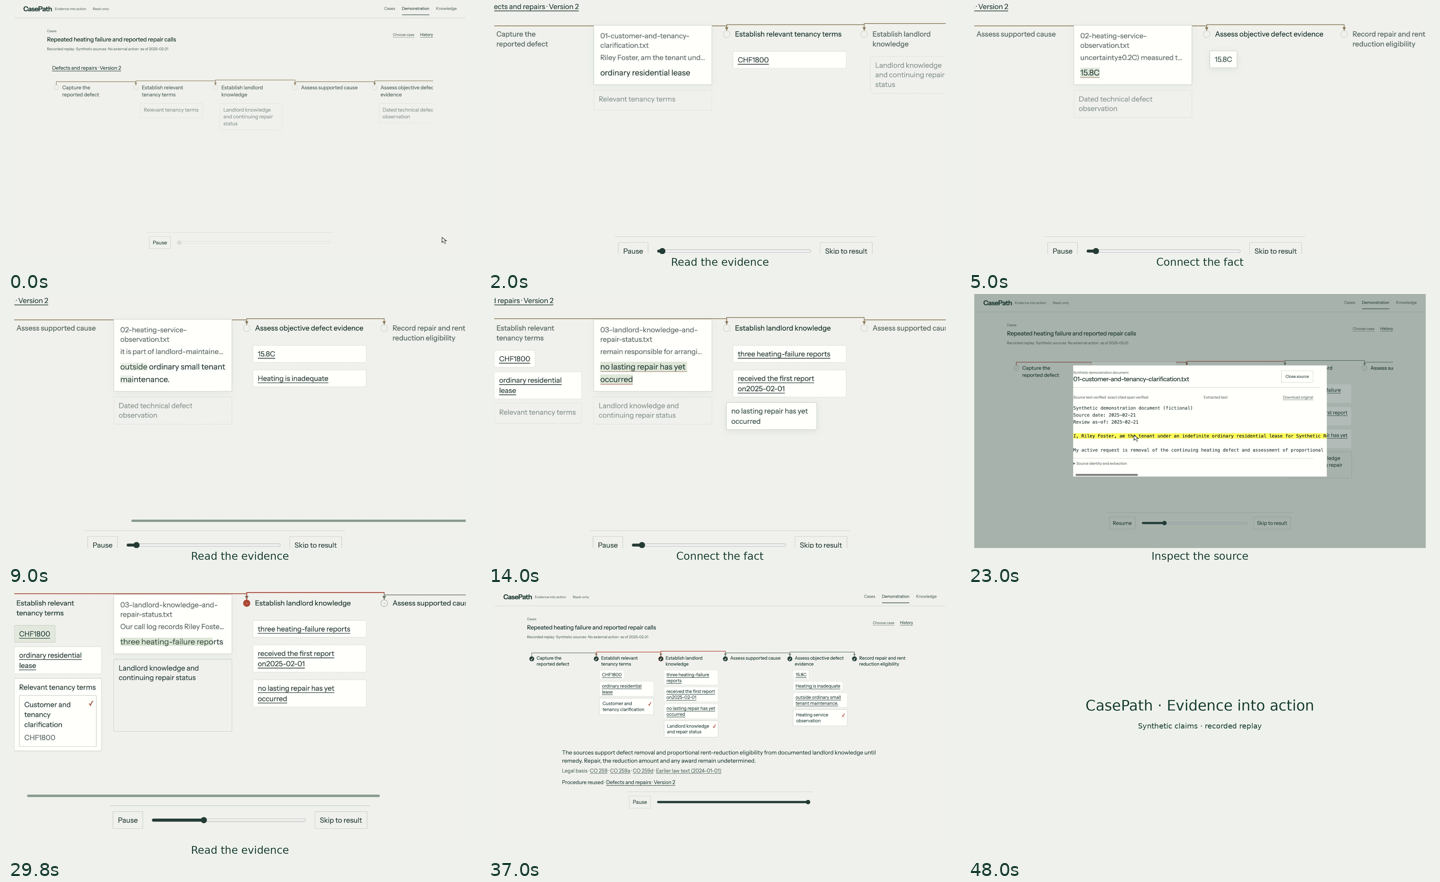
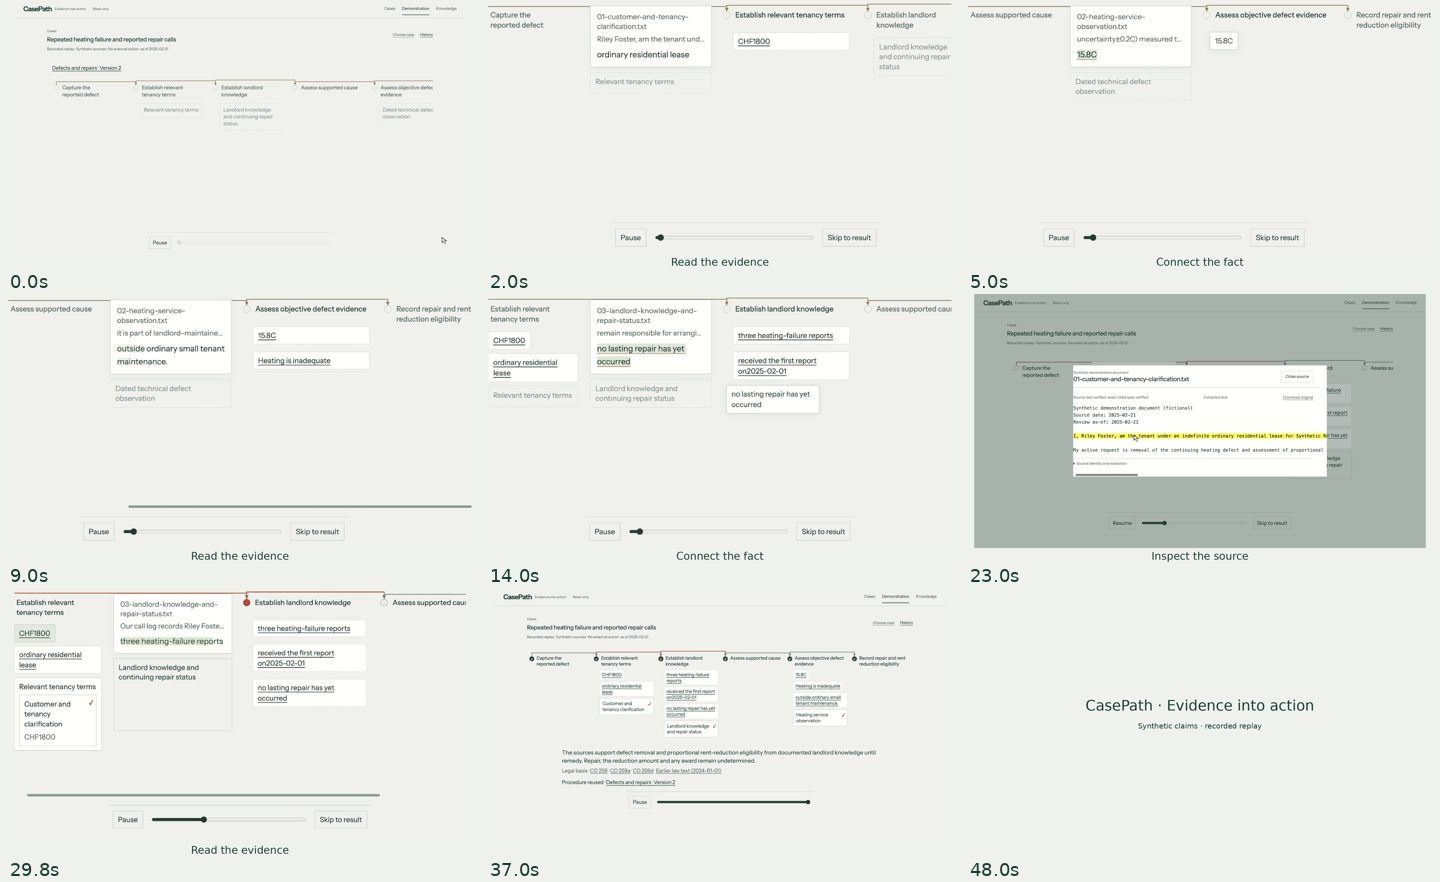
fix(media): keep active closeups clear of header text

diff --git a/render-agentic-v5.py b/render-agentic-v5.py
@@ -338,13 +338,12 @@ class Movie:
             q = 1 - math.exp(-6 / FPS)
             preferred = prior[0] + q * (goal[0] - prior[0]), prior[1] + q * (goal[1] - prior[1])
         fitted, bound = fit_camera(self.cw, self.ch, bounds, preferred=preferred)
-        # Actual supplied UI's title/header and reused-version line end above
-        # CSS y=224. Exclude them entirely in a deliberate body close-up.
-        # A body close-up excludes it completely instead of cutting its letters.
+        # Start the close-up just above the genuine working card. The viewport's
+        # title/reused-version header stays entirely outside this body close-up.
+        # A lower crop may be shorter than the viewport; render without stretching.
         cx, cy, zoom = fitted
         crop_h = self.ch / zoom
-        if bounds[1] >= 224 and 224 + crop_h <= self.ch:
-            cy = max(cy, 224 + crop_h / 2)
+        cy = max(cy, bounds[1] - 14 + crop_h / 2)
         fitted = cx, cy, zoom
         return fitted, bound, mode
 
@@ -364,6 +363,9 @@ class Movie:
         bounds_limited = [r for r in camera_rows if r["mode"] == "active" and not r["meets_1_4"]]
         if bounds_limited:
             self.issues.append(f"{len(bounds_limited)} active samples cannot fit required union at 1.4x; truthful lower bound reported")
+        transitions = sum(r['mode'] == 'native-pan-transition-full-ui' for r in camera_rows)
+        if transitions:
+            self.issues.append(f'{transitions} transient native pan samples kept full UI because part of destination is outside original viewport; no missing pixels reconstructed')
         return {
             "status": "V4_COMPATIBILITY_ONLY_NOT_V5_ACCEPTANCE" if self.compat else "V5_METADATA_PLAN_ONLY_NOT_MEDIA_ACCEPTANCE",
             "source_commit": self.commit, "capture_index_sha256": digest(self.args.input),
@@ -430,6 +432,7 @@ class Movie:
         cx, cy, zoom = camera
         crop_w, crop_h = self.cw / zoom, self.ch / zoom
         x, y = max(0, cx - crop_w / 2), max(0, cy - crop_h / 2)
+        crop_h = min(crop_h, self.ch - y)
         scale = min(W / crop_w, (H - GUTTER) / crop_h)
         width, height = round(crop_w * scale), round(crop_h * scale)
         left, top = (W - width) // 2, (H - GUTTER - height) // 2
